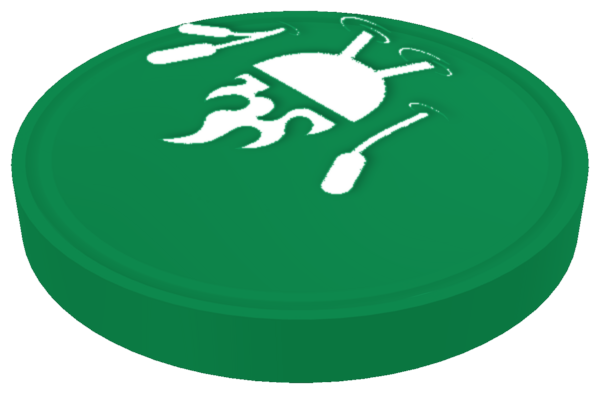
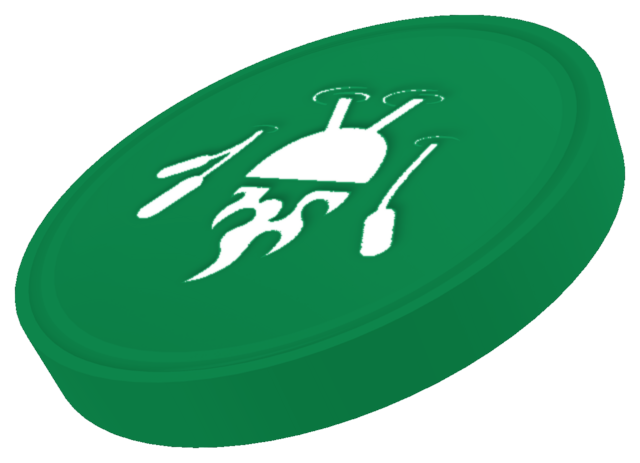
Wingstop Branding: re-render chips as TOSSED 3D coins (varied per-chip pose x/y/z in SD Studio so they read mid-air) + glyph now printed flat on the disc top (centered, rides the coin's rotation); chip grid drops CSS spin for a gentle float + per-chip vertical stagger. Flat grid → the 12 ORIGINAL Wi

Changed region(s): [[0.0, 0.0, 0.99, 0.9746]]

diff --git a/components/blocks/wingstop/BrandingSection.tsx b/components/blocks/wingstop/BrandingSection.tsx
@@ -47,14 +47,14 @@ export function BrandingSection() {
           {defaults.gridEyebrow}
         </span>
         <p className="mt-2 max-w-[60ch] text-[15px] text-white/80 sm:text-base">{defaults.gridNote}</p>
-        <ul className="mt-6 grid grid-cols-3 gap-4 sm:grid-cols-6 sm:gap-5">
+        <ul className="mt-6 grid grid-cols-4 gap-3 sm:grid-cols-6 lg:grid-cols-12">
           {defaults.grid.map((src, i) => (
             <li
               key={src + i}
-              className="flex aspect-square items-center justify-center rounded-2xl border border-white/12 bg-white/[0.06] p-3"
+              className="flex aspect-square items-center justify-center rounded-xl border border-white/12 bg-white/[0.06] p-2"
             >
               {/* eslint-disable-next-line @next/next/no-img-element */}
-              <img src={src} alt="" className="h-full w-full object-contain" />
+              <img src={src} alt="" className="h-10 w-10 object-contain" />
             </li>
           ))}
         </ul>
@@ -64,14 +64,19 @@ export function BrandingSection() {
 }
 
 /** One dimensional chip; tilts toward ~45° as the section scrolls through view. */
+/** Per-chip baseline offsets (px) — a slight vertical scatter so the grid reads
+ *  as tossed coins rather than a rigid 3×2. Indexed by position. */
+const CHIP_STAGGER = [-14, 18, -8, 12, -18, 8]
+
 function Chip({ chip, index }: { chip: { src: string; name: string; color: string }; index: number }) {
   const ref = useRef<HTMLDivElement>(null)
-  const [rot, setRot] = useState(-18)
+  const [drift, setDrift] = useState(0)
+  const base = CHIP_STAGGER[index % CHIP_STAGGER.length]
 
   useEffect(() => {
     const reduce = window.matchMedia?.('(prefers-reduced-motion: reduce)').matches
     if (reduce) {
-      setRot(0)
+      setDrift(0)
       return
     }
     let raf = 0
@@ -83,7 +88,8 @@ function Chip({ chip, index }: { chip: { src: string; name: string; color: strin
       const vh = window.innerHeight
       // center-relative progress: -1 (below) → 0 (centered) → 1 (above)
       const c = (r.top + r.height / 2 - vh / 2) / (vh / 2)
-      setRot(Math.max(-45, Math.min(45, c * 42)))
+      // gentle vertical float; alternate direction per chip so they bob apart.
+      setDrift(Math.max(-26, Math.min(26, c * 24 * (index % 2 ? -1 : 1))))
     }
     const schedule = () => {
       if (!raf) raf = requestAnimationFrame(onScroll)
@@ -96,17 +102,14 @@ function Chip({ chip, index }: { chip: { src: string; name: string; color: strin
       window.removeEventListener('resize', schedule)
       if (raf) cancelAnimationFrame(raf)
     }
-  }, [])
+  }, [index])
 
   return (
     <div className="flex flex-col items-center">
-      {/* The chip renders are WIDE ellipses (a coin seen at an angle), so the
-          container is sized to that shape (4:3-ish) rather than a square — a
-          square left big vertical gaps and let the coin drift toward the label. */}
-      <div ref={ref} className="relative grid aspect-[4/3] w-full place-items-center will-change-transform">
-        {/* Real SD-Studio 3D chip render (Wingstop-green coin + white glyph).
-            A gentle scroll-driven rotate gives the same subtle motion as the
-            Baserate chips without faking depth in CSS. */}
+      {/* The chip renders are already tossed 3D coins (pre-rotated in SD Studio),
+          so we DON'T re-rotate in CSS — just a gentle vertical float + a static
+          per-chip stagger so the set reads as coins caught mid-air. */}
+      <div ref={ref} className="relative grid aspect-square w-full place-items-center will-change-transform">
         {/* eslint-disable-next-line @next/next/no-img-element */}
         <img
           src={chip.src}
@@ -114,12 +117,12 @@ function Chip({ chip, index }: { chip: { src: string; name: string; color: strin
           loading="lazy"
           className="h-full w-full object-contain"
           style={{
-            transform: `rotate(${rot * 0.4}deg)`,
-            filter: 'drop-shadow(0 16px 24px rgba(0,0,0,0.5))',
+            transform: `translateY(${base + drift}px)`,
+            filter: 'drop-shadow(0 18px 26px rgba(0,0,0,0.55))',
           }}
         />
       </div>
-      <span className="br-data mt-4 text-center text-[11px] uppercase leading-tight tracking-[0.08em] text-white/65">
+      <span className="br-data mt-3 text-center text-[11px] uppercase leading-tight tracking-[0.08em] text-white/65">
         {chip.name}
       </span>
     </div>

diff --git a/components/blocks/wingstop/data.ts b/components/blocks/wingstop/data.ts
@@ -322,14 +322,20 @@ export const branding = {
     { src: '/wingstop/flavor-chips/mango-volcano.png', name: 'Mango Volcano', color: '#006938' },
   ],
   gridEyebrow: 'MATCHED TO THE BRAND',
-  gridNote: 'The full set, drawn to sit alongside Wingstop’s existing iconography.',
+  gridNote: 'Wingstop’s existing flavor-icon language — the system I designed mine to sit alongside.',
   grid: [
-    '/wingstop/flavor-icons-designed/atomic-bbq.png',
-    '/wingstop/flavor-icons-designed/bayou-bbq.png',
-    '/wingstop/flavor-icons-designed/dragon-breath.png',
-    '/wingstop/flavor-icons-designed/hot-lemon.png',
-    '/wingstop/flavor-icons-designed/lemon-garlic.png',
-    '/wingstop/flavor-icons-designed/mango-volcano.png',
+    '/wingstop/flavor-icons/hawaiian.svg',
+    '/wingstop/flavor-icons/lemon-pepper.svg',
+    '/wingstop/flavor-icons/garlic-parm.svg',
+    '/wingstop/flavor-icons/mild.svg',
+    '/wingstop/flavor-icons/original-hot.svg',
+    '/wingstop/flavor-icons/louisiana-rub.svg',
+    '/wingstop/flavor-icons/cajun.svg',
+    '/wingstop/flavor-icons/spicy-korean.svg',
+    '/wingstop/flavor-icons/mango-habanero.svg',
+    '/wingstop/flavor-icons/bbq.svg',
+    '/wingstop/flavor-icons/old-bay.svg',
+    '/wingstop/flavor-icons/atomic.svg',
   ],
 }
 
